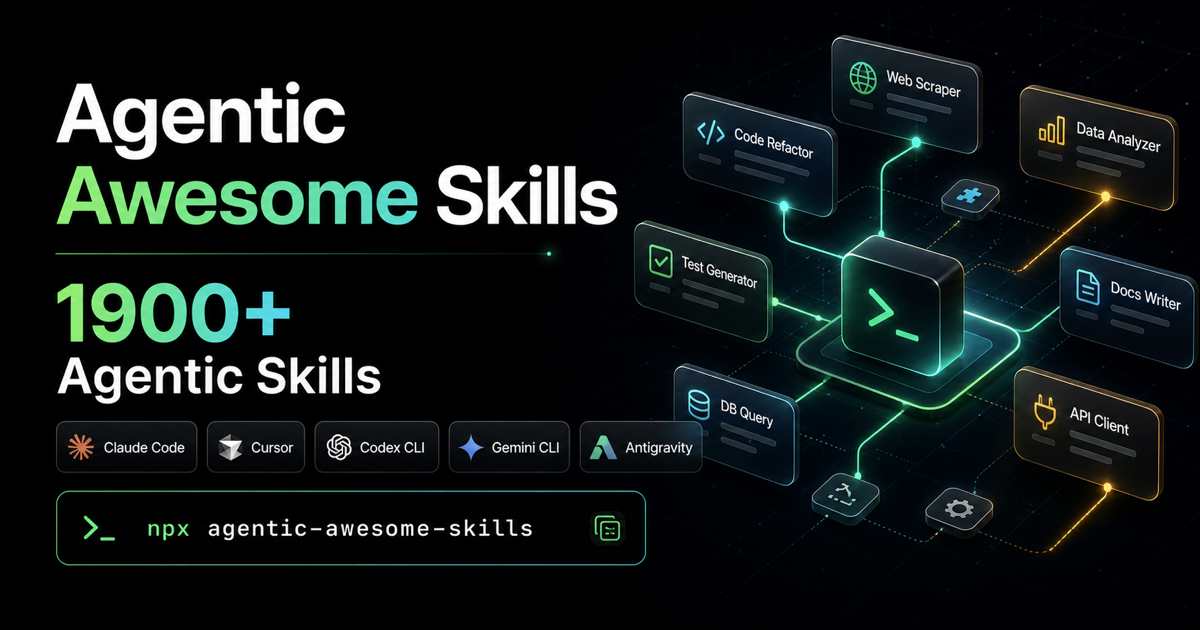
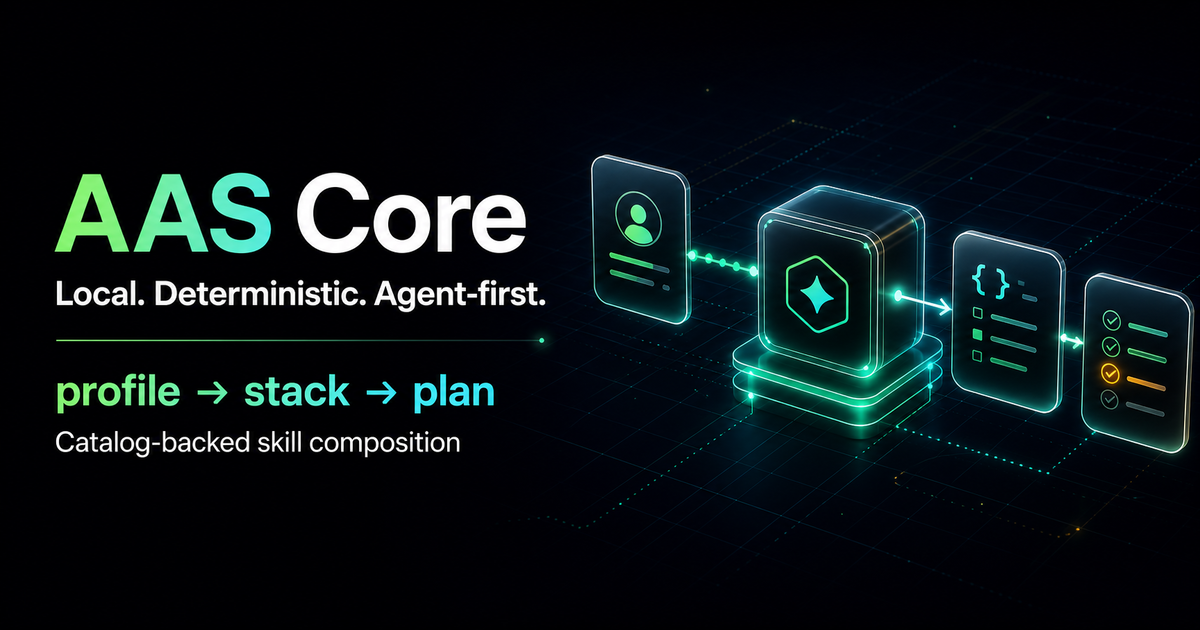
docs: Align secondary narrative with AAS Core
Reframe user guides, hosted discovery copy, and Workbench labels around the Core workflow while preserving direct distribution and historical content. Replace the legacy social preview with a provenance-bound ImageGen asset.

diff --git a/apps/web-app/scripts/verify-seo-assets.test.js b/apps/web-app/scripts/verify-seo-assets.test.js
@@ -19,6 +19,7 @@ import {
   assertRobots,
   assertSitemap,
   assertSocialCard,
+  assertSocialCardProvenance,
   extractSitemapLocations,
 } from './verify-seo-assets.js';
 
@@ -636,6 +637,7 @@ describe('seo assets verification helpers', () => {
       # Agentic Awesome Skills
       AAS Core preview
       Current release: V1.2.3.
+      The published package predates AAS Core.
       1,678+ agentic skills with specialized plugins for Claude Code and Codex CLI.
       https://github.com/sickn33/agentic-awesome-skills
       https://sickn33.github.io/agentic-awesome-skills/workbench
@@ -650,6 +652,7 @@ describe('seo assets verification helpers', () => {
       # Agentic Awesome Skills
       AAS Core preview
       Current release: V1.2.2.
+      The published package predates AAS Core.
       1,678+ agentic skills with specialized plugins for Claude Code and Codex CLI.
       https://github.com/sickn33/agentic-awesome-skills
       https://sickn33.github.io/agentic-awesome-skills/workbench
@@ -762,6 +765,24 @@ describe('seo assets verification helpers', () => {
     png.writeUInt32BE(630, 20);
 
     expect(() => assertSocialCard(png)).not.toThrow();
+  });
+
+  it('binds an ImageGen social card to its provenance record', () => {
+    const png = Buffer.alloc(24);
+    Buffer.from([0x89, 0x50, 0x4e, 0x47, 0x0d, 0x0a, 0x1a, 0x0a]).copy(png, 0);
+    png.write('IHDR', 12, 'ascii');
+    png.writeUInt32BE(1200, 16);
+    png.writeUInt32BE(630, 20);
+    const provenance = JSON.stringify({
+      schemaVersion: 1,
+      generator: 'OpenAI ImageGen',
+      dimensions: { width: 1200, height: 630 },
[1 lines of base64/hex data omitted]
+      visibleCopy: ['AAS Core', 'profile → stack → plan'],
+    });
+
+    expect(() => assertSocialCardProvenance(png, provenance)).not.toThrow();
+    expect(() => assertSocialCardProvenance(png, provenance.replace('763d6b', '000000'))).toThrow('SHA-256');
   });
 
   it('rejects stale social card count labels', () => {

diff --git a/apps/web-app/scripts/verify-seo-assets.js b/apps/web-app/scripts/verify-seo-assets.js
@@ -1,4 +1,5 @@
 import fs from 'node:fs';
+import crypto from 'node:crypto';
 import os from 'node:os';
 import path from 'node:path';
 import { fileURLToPath } from 'node:url';
@@ -788,6 +789,19 @@ export function assertSocialCard(cardData, { expectedSkillCountLabel = '1,678+' 
   assertOnlyExpectedSkillCountLabel(text, expectedSkillCountLabel, 'Social card');
 }
 
+export function assertSocialCardProvenance(cardData, provenanceText) {
+  const provenance = JSON.parse(String(provenanceText ?? ''));
+  const { width, height } = readPngDimensions(cardData);
+  const digest = crypto.createHash('sha256').update(cardData).digest('hex');
+
+  assert(provenance.schemaVersion === 1, 'Social card provenance must use schema version 1.');
+  assert(provenance.generator === 'OpenAI ImageGen', 'Social card provenance must identify OpenAI ImageGen.');
+  assert(provenance.dimensions?.width === width && provenance.dimensions?.height === height, 'Social card provenance dimensions must match the PNG.');
+  assert(provenance.sha256 === digest, 'Social card provenance SHA-256 must match the PNG.');
+  assert(Array.isArray(provenance.visibleCopy) && provenance.visibleCopy.includes('AAS Core'), 'Social card provenance must preserve AAS Core as the primary visible product.');
+  assert(provenance.visibleCopy.includes('profile → stack → plan'), 'Social card provenance must preserve the Core workflow.');
+}
+
 export function assertPluginsDiscoveryMeta(htmlText) {
   const title = extractTitle(htmlText);
   const description = extractMetaContent(htmlText, 'name', 'description') || '';
@@ -924,6 +938,7 @@ export function assertLlms(llmsText, { expectedSkillCountLabel = '1,678+', expec
     'https://github.com/sickn33/agentic-awesome-skills',
     'https://sickn33.github.io/agentic-awesome-skills/workbench',
     'Canonical source of truth',
+    'predates AAS Core',
   ];
 
   for (const snippet of requiredSnippets) {
@@ -999,7 +1014,10 @@ export function runVerification({
   const sourceIndexHtml = readFile(sourceIndexPath);
   assertStaticIndexShell(sourceIndexHtml, { expectedSkillCountLabel, requireHostedUrl });
   assertWebmasterVerificationMeta(sourceIndexHtml);
-  assertSocialCard(readBinaryFile(socialImagePath), { expectedSkillCountLabel });
+  const socialCard = readBinaryFile(socialImagePath);
+  assertSocialCard(socialCard, { expectedSkillCountLabel });
+  const socialCardProvenancePath = path.join(path.dirname(socialImagePath), 'social-card.provenance.json');
+  assertSocialCardProvenance(socialCard, readFile(socialCardProvenancePath));
   assertRobots(readFile(robotsPath), {
     expectedSitemapUrl: new URL('sitemap.xml', sitemapReport.rootUrl).href,
   });

diff --git a/apps/web-app/src/pages/Workbench.tsx b/apps/web-app/src/pages/Workbench.tsx
@@ -56,7 +56,7 @@ function StackReview({ stack }: { stack: StackManifestReview }): React.ReactElem
     <article className="workbench-review" aria-labelledby="stack-review-title">
       <header className="workbench-review__heading">
         <div>
-          <p>Validated stack manifest</p>
+          <p>Structurally valid stack manifest</p>
           <h2 id="stack-review-title">{stack.name}</h2>
         </div>
         <span>Schema v{stack.schemaVersion}</span>
@@ -112,7 +112,7 @@ function PlanReviewView({ plan }: { plan: PlanReview }): React.ReactElement {
     <article className="workbench-review" aria-labelledby="plan-review-title">
       <header className="workbench-review__heading">
         <div>
-          <p>Validated immutable plan</p>
+          <p>Structurally valid plan · digest verified</p>
           <h2 id="plan-review-title">Single-target change review</h2>
         </div>
         <span>Schema v{plan.schemaVersion}</span>

diff --git a/apps/web-app/scripts/prerender-routes.js b/apps/web-app/scripts/prerender-routes.js
@@ -608,7 +608,7 @@ function buildWorkbenchMeta({ imageUrl, canonicalUrl }) {
     '@context': 'https://schema.org',
     '@type': 'SoftwareSourceCode',
     name: SITE_NAME,
-    description: 'Canonical repository of installable agent skills and machine-readable registry evidence.',
+    description: 'Canonical source for AAS Core, its local MCP and CLI, and the supporting skills catalog and registry evidence.',
     url: REPOSITORY_URL,
     sameAs: [canonicalUrl, catalogRootUrl, 'https://www.npmjs.com/package/agentic-awesome-skills'],
     mainEntityOfPage: canonicalUrl,

diff --git a/docs/users/visual-guide.md b/docs/users/visual-guide.md
@@ -1,26 +1,32 @@
-# Visual Quick Start Guide
+# Visual Guide: AAS Core and Skill Distribution
 
-**Learn by seeing!** This guide uses diagrams and visual examples to help you understand skills.
+This guide shows the primary AAS Core workflow and the supporting catalog and distribution surfaces.
 
 ---
 
 ## The Big Picture
 
 ```
-┌─────────────────────────────────────────────────────────────┐
-│                    YOU (Developer)                          │
-│                          ↓                                  │
-│              "Help me build a payment system"               │
-│                          ↓                                  │
-├─────────────────────────────────────────────────────────────┤
-│                  AI ASSISTANT                               │
-│                          ↓                                  │
-│              Loads @stripe-integration skill                │
-│                          ↓                                  │
-│         Becomes an expert in Stripe payments                │
-│                          ↓                                  │
-│    Provides specialized help with code examples             │
-└─────────────────────────────────────────────────────────────┘
+PROJECT
+   │ inspected by Codex or Claude, not by AAS
+   ▼
+EXPLICIT PROJECT PROFILE
+   │
+   ▼
+AAS MCP ── search · inspect · recommend
+   │
+   ▼
+AAS CORE + LOCAL VERIFIED CATALOG
+   │ evidence · exclusions · coverage · unknowns
+   ▼
+AGENT PROPOSES aas-stack.json
+   │
+   ├────────► WORKBENCH (optional browser-local review)
+   ▼
+CLI VALIDATE ──► CLI PLAN ──► HUMAN REVIEW
+
+Supported preview path: stop after plan review.
+Apply and recovery remain experimental.
 ```
 
 ---
@@ -66,7 +72,7 @@ agentic-awesome-skills/
 
 ---
 
-## How Skills Work (Flow Diagram)
+## Alternative: Direct Skill Distribution
 
 ```
 ┌──────────────┐
@@ -90,7 +96,7 @@ agentic-awesome-skills/
        │
        ↓
 ┌──────────────┐
-│ 5. RESULT    │  You get specialized help!
+│ 5. RESULT    │  The agent follows the selected instructions
 └──────────────┘
 ```
 

diff --git a/docs/users/ai-agent-skills.md b/docs/users/ai-agent-skills.md
@@ -1,29 +1,32 @@
 # AI Agent Skills
 
-If you are researching **AI agent skills** on GitHub, the biggest decision is usually not "which single skill is best?" but "do I want a broad installable library or a smaller curated collection?"
+If you are researching **AI agent skills** on GitHub, the useful first decision is whether you want deterministic project-level composition or manual selection from a catalog.
 
-Agentic Awesome Skills is built for the first path: broad coverage, multiple supported tools, installation help, onboarding docs, bundles, workflows, and a catalog that supports both beginner and advanced users.
+Agentic Awesome Skills is built around **AAS Core**: Codex or Claude inspects the project, sends an explicit profile to the local AAS MCP, and receives an explainable recommendation from the verified catalog. The agent proposes `aas-stack.json`; the CLI validates it and produces an immutable preview plan before any target change.
 
-## What to look for in an AI agent skills library
+The catalog, plugins, bundles, workflows, and direct installer remain supporting content and distribution surfaces. AAS does not scan the repository, call a remote model, or write project files through MCP.
 
-- **Installability**: can you put the skills where your tool expects them without manual copying?
-- **Supported tools**: does the repo work with Claude Code, Cursor, Codex CLI, Gemini CLI, and related environments?
-- **Breadth vs curation**: do you want many options or a smaller shortlist of high-signal entries?
-- **Onboarding quality**: are there docs, bundles, workflows, and examples, or only raw files?
-- **Trust model**: does the repo identify official sources, security posture, and community review expectations?
+## What to look for in an AI agent skill system
+
+- **Explicit input boundary**: is project analysis performed by the coding agent and passed as a reviewable profile?
+- **Deterministic recommendation**: can the same profile, policy, runtime, and catalog identity reproduce the same result?
+- **Explainability**: do recommendations include evidence, exclusions, uncovered goals, and unknowns?
+- **Durable desired state**: can the approved selection be recorded independently of the agent conversation?
+- **Preview before change**: can the system validate the manifest and produce an exact plan without changing the target?
+- **Source and compatibility evidence**: are provenance, risk, host support, and distribution boundaries explicit?
 
 ## When Agentic Awesome Skills is a good fit
 
-- You want one library that spans planning, coding, debugging, testing, security, infra, product, and marketing.
-- You care about installation paths and practical onboarding, not only catalog size.
-- You want bundles and workflows to reduce choice overload.
-- You need compatibility across more than one AI coding assistant.
+- You use Codex or Claude and want a small, policy-controlled stack for a real project.
+- You want local search and recommendation without repository scanning or remote-model calls by AAS.
+- You need a reviewable `aas-stack.json` and CLI validation and planning before target changes.
+- You also value a broad catalog and multiple distribution options around the Core workflow.
 
 ## When a smaller curated repo may be better
 
-- You only want a narrow shortlist of highly curated or vendor-focused skills.
-- You prefer reviewing fewer files even if coverage is lower.
-- You are evaluating alternatives for a single tool and want a quick comparison first.
+- You only want a fixed, vendor-maintained shortlist and do not need project-aware composition.
+- You prefer selecting and invoking individual skills manually.
+- Your host does not yet have an AAS Core adapter and direct distribution is sufficient.
 
 ## Start with a tool-specific guide
 
@@ -32,7 +35,7 @@ Agentic Awesome Skills is built for the first path: broad coverage, multiple sup
 - [`codex-cli-skills.md`](codex-cli-skills.md)
 - [`gemini-cli-skills.md`](gemini-cli-skills.md)
 
-## Compare broad vs curated libraries
+## Compare catalogs and distribution models
 
 - [`agentic-awesome-skills-vs-awesome-claude-skills.md`](agentic-awesome-skills-vs-awesome-claude-skills.md)
 - [`best-claude-code-skills-github.md`](best-claude-code-skills-github.md)
@@ -40,6 +43,6 @@ Agentic Awesome Skills is built for the first path: broad coverage, multiple sup
 
 ## Quick recommendation
 
-- Choose **Agentic Awesome Skills** if you want a large, installable, multi-tool library with onboarding help.
-- Choose a smaller curated repo if you want fewer choices and more editorial filtering.
-- If you are unsure, install this repo first, start with [`bundles.md`](bundles.md), and then compare alternatives once you know your preferred workflow.
+- Choose **AAS Core** if you want local, deterministic, explainable skill-stack composition from an explicit project profile to a preview plan.
+- Choose direct distribution if you already know the exact skills you want or your host does not support the Core path.
+- Choose a smaller curated repository if a fixed editorial shortlist matters more than project-specific recommendation and durable desired state.

diff --git a/docs/users/usage.md b/docs/users/usage.md
@@ -21,11 +21,9 @@ The recommendation is deterministic and local. AAS MCP does not inspect the repo
 
 ## Alternative workflow: direct skill installation
 
-Great question! Here's what just happened and what to do next:
-
 If you came in through a **Claude Code** or **Codex** plugin instead of AAS Core or a full library install, invoke individual skills in prompts. Plugins ship a fixed plugin-safe subset; AAS Core instead composes a project stack from the verified catalog and records it in `aas-stack.json`. See [plugins.md](plugins.md) for the distribution model.
 
-### What You Just Did
+### What direct distribution provides
 
 When you ran `npx agentic-awesome-skills` or cloned the repository, you:
 
@@ -33,7 +31,7 @@ When you ran `npx agentic-awesome-skills` or cloned the repository, you:
 ✅ **Made them available** to your AI assistant
 ❌ **Did NOT enable them all automatically** (they're just sitting there, waiting)
 
-Think of it like installing a toolbox. You have all the tools now, but you need to **pick which ones to use** for each job.
+Direct distribution makes skill files available to the host. It does not select a project-specific stack, record desired state, or produce a preview plan; those are AAS Core responsibilities.
 
 ---
 
@@ -47,11 +45,7 @@ Think of it like installing a toolbox. You have all the tools now, but you need 
 
 Bundles are **curated groups** of skills organized by role. They help you decide which skills to start using, and they can also be exposed as focused marketplace plugins for Claude Code and Codex.
 
-**Analogy:**
-
-- You installed a toolbox with 1,965+ tools (✅ done)
-- Bundles are like **labeled organizer trays** saying: "If you're a carpenter, start with these 10 tools"
-- You can either **pick skills from the tray** or install that tray as a focused marketplace bundle plugin
+Bundles provide editorial shortlists. You can either select individual skills from a bundle or install its focused marketplace plugin where supported.
 
 ### What Bundles Are NOT
 
@@ -89,8 +83,6 @@ If you want only one bundle active at a time in Antigravity, use the activation 
 ---
 
 ## Direct-install Step 2: Invoke a Skill
-
-This is the part that should have been explained better! Here's how to use skills:
 
 ### The Simple Answer
 

diff --git a/CHANGELOG.md b/CHANGELOG.md
@@ -16,6 +16,7 @@ and this project adheres to [Semantic Versioning](https://semver.org/spec/v2.0.0
 
 ### Changed
 
+- Aligned secondary user guides, hosted discovery copy, Workbench verification labels, and an ImageGen-produced social card with the AAS Core product hierarchy while preserving direct-distribution, contributor, governance, and historical content.
 - Clarified the first-screen AAS Core narrative with one primary product, an explicit project-profile trust boundary, a single Core CTA, and durable generator guards that keep future metadata syncs from restoring the legacy library-first headline.
 - Made the local reviewer a mandatory maintainer pre-merge step for changed `SKILL.md` and bundle blobs, while preserving Tessl or exact-head maintainer attestation as the official merge gate.
 - Recentered the README, user onboarding, host guides, package metadata, and hosted catalog narrative on AAS Core while preserving contributor, catalog, plugin, bundle, workflow, compatibility, community, and source-credit content.